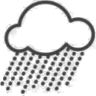
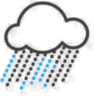
change: 見出しの絵に色（降水量の雨粒を水色・気温の温度計の液を赤・風速の線を青）
Claude-Session: https://claude.ai/code/session_01M6MmCFRYFULb3Pq5EuzxK3

diff --git a/README.md b/README.md
@@ -465,7 +465,7 @@ WantedBy=multi-user.target
 
 ### 見出しの絵
 
-今日の天気の見出し「降水量」「気　温」「風　速」の右に、文字と同じ大きさ（22px）の絵を付ける。「気温」「風速」は真ん中に全角スペースを入れて「降水量」と同じ幅にし、絵を縦一列にそろえる（`weather_icons/labels/` の `precip.png`・`temp.png`・`wind.png`。`weather_draw.py` の `LABEL_ICONS`）。
+今日の天気の見出し「降水量」「気　温」「風　速」の右に、文字と同じ大きさ（22px）の絵を付ける（降水量は雨粒を水色、気温は温度計の液を赤、風速は線を青。ほかは濃い灰色）。「気温」「風速」は真ん中に全角スペースを入れて「降水量」と同じ幅にし、絵を縦一列にそろえる（`weather_icons/labels/` の `precip.png`・`temp.png`・`wind.png`。`weather_draw.py` の `LABEL_ICONS`）。
 
 ### 今日の天気のアイコン（Open-Meteo の天気 → 気象庁のアイコン）
 
